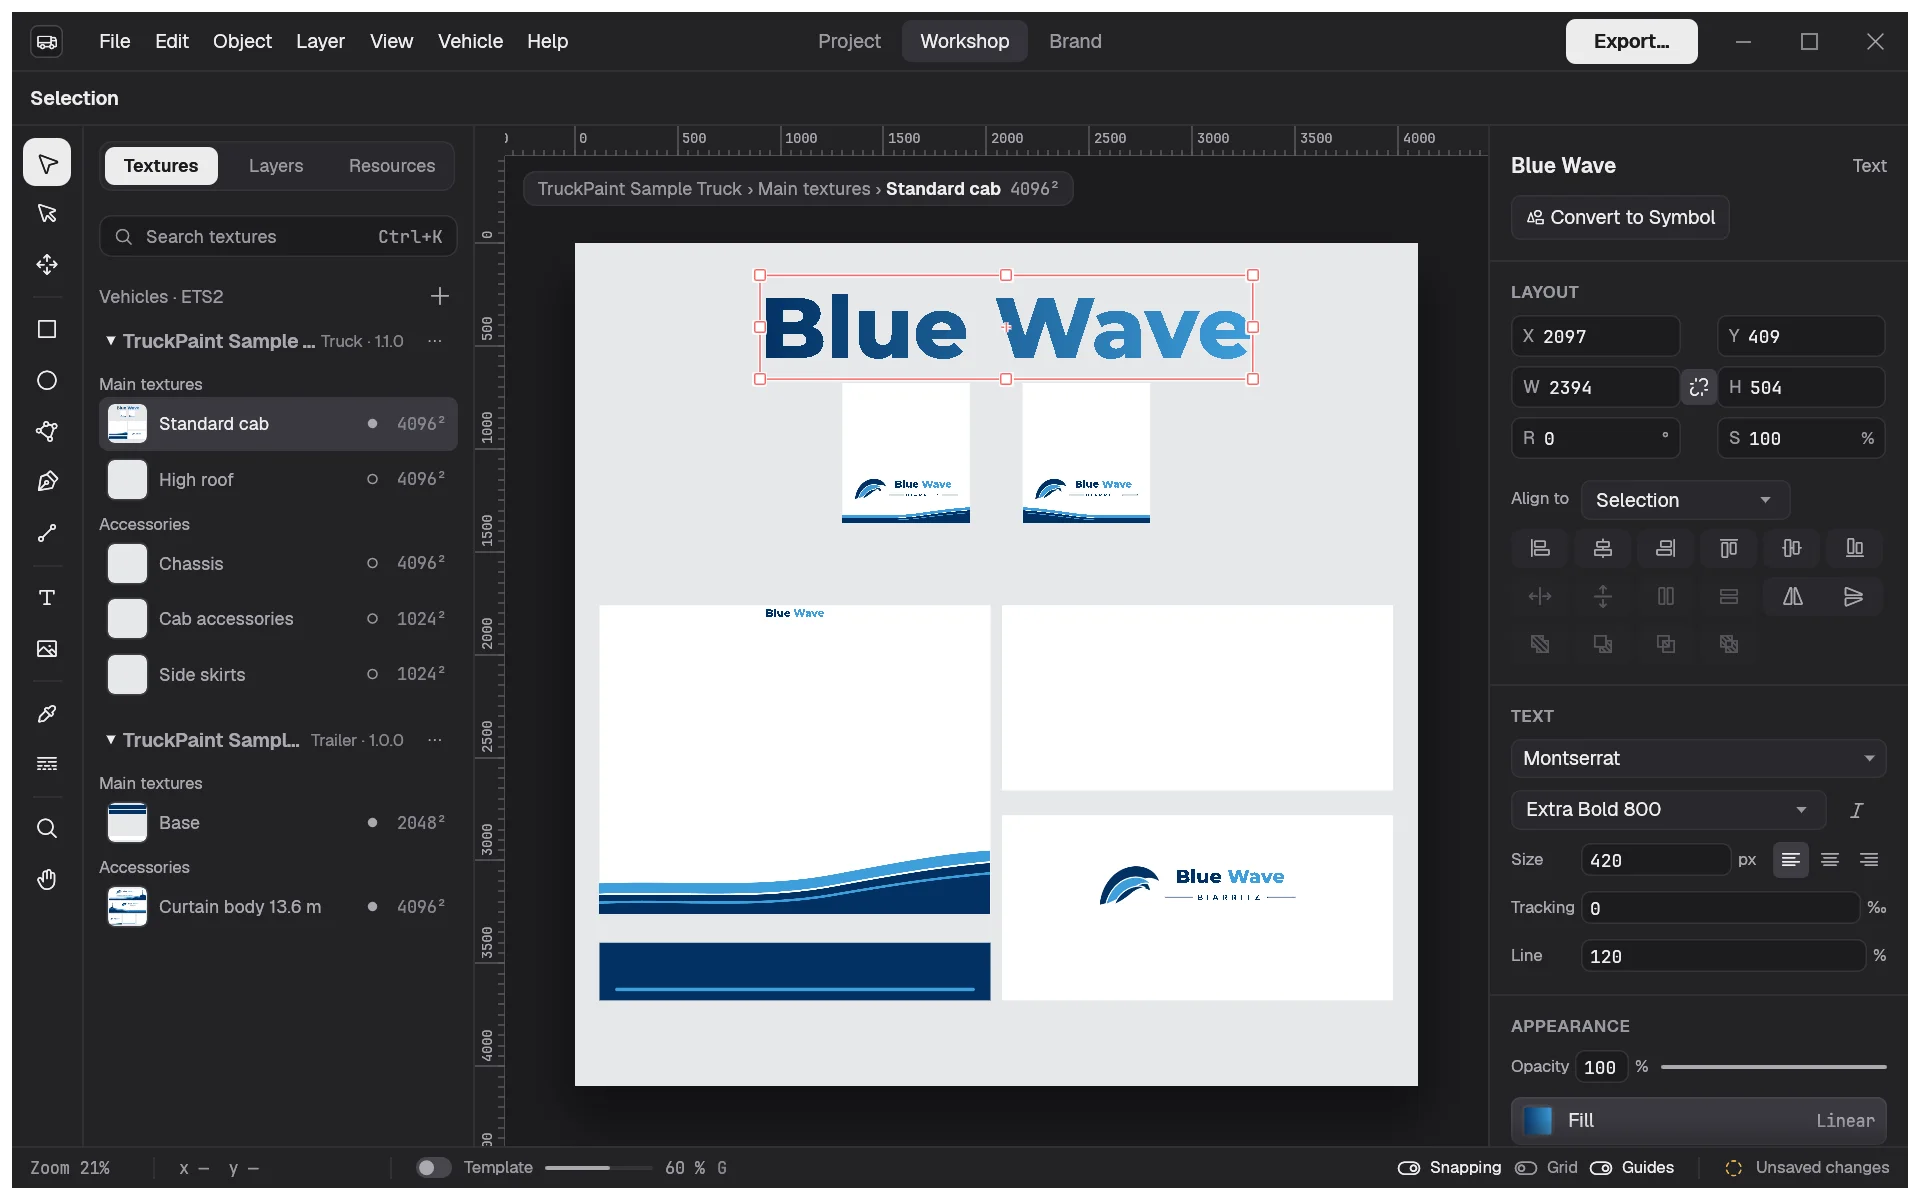
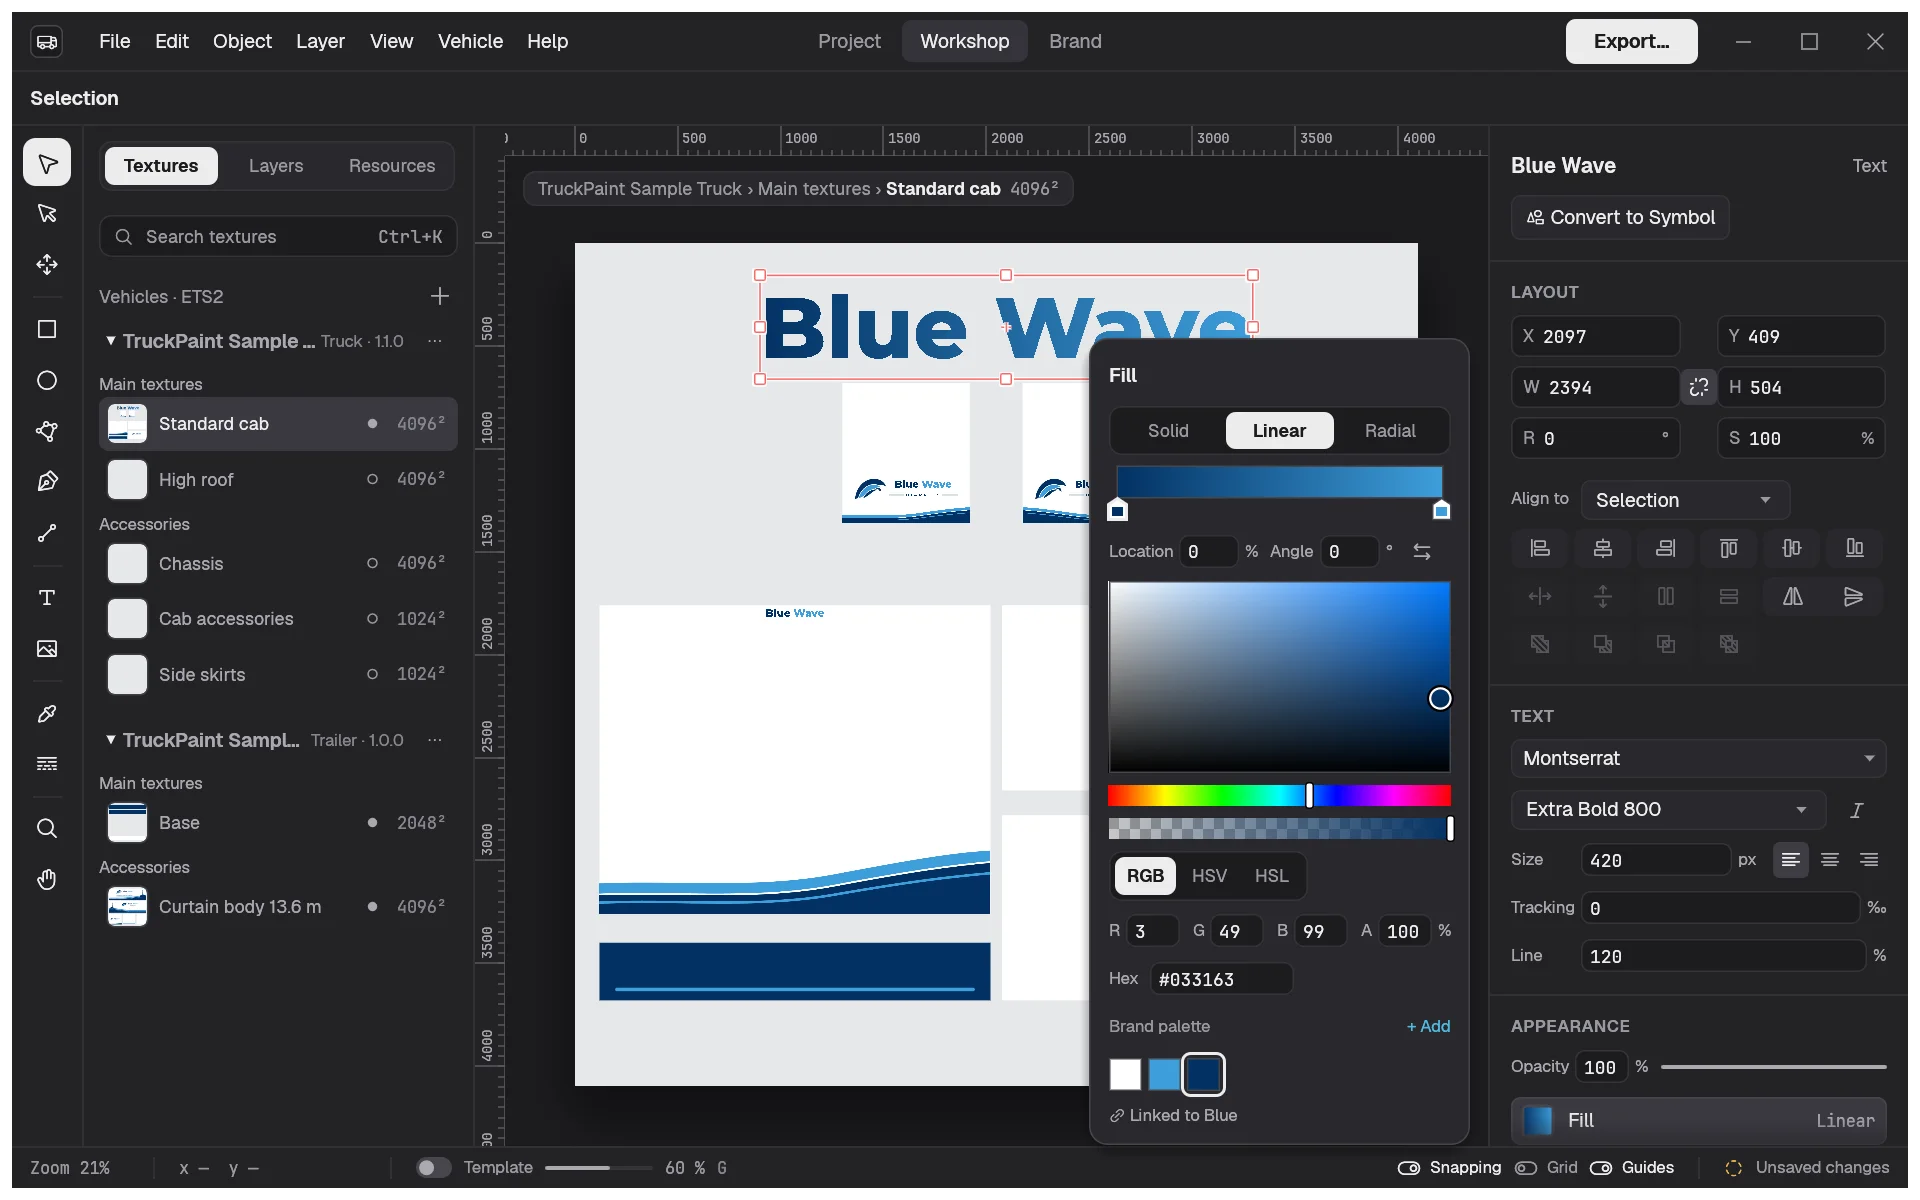
docs: the gradients picture opens the color popover and the page explains it

Changed region(s): [[0.5625, 0.2775, 0.7812, 0.9558]]

diff --git a/crates/tp-app/tests/doc_media.rs b/crates/tp-app/tests/doc_media.rs
@@ -1019,6 +1019,10 @@ fn section_workshop() {
             ws.selection = vec![text];
             ws.panels.color_target = tp_app::workspace::ColorTarget::Fill;
         }
+        // The color popover, with the gradient bar and its two stops.
+        h.run();
+        h.get_by_label(&tp_i18n::tr("props-fill-color")).click();
+        h.run();
         shot(&mut h, language, "workshop/gradients");
     });
 }
